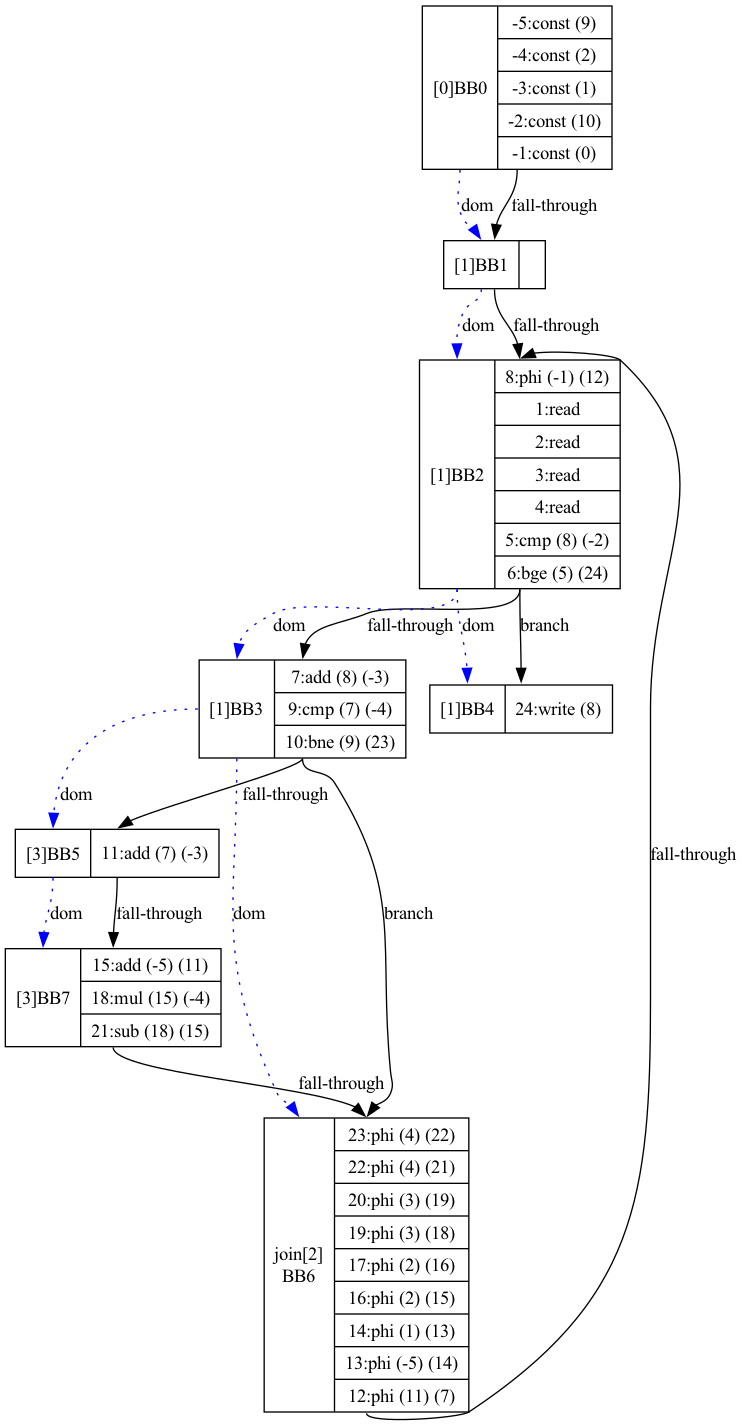
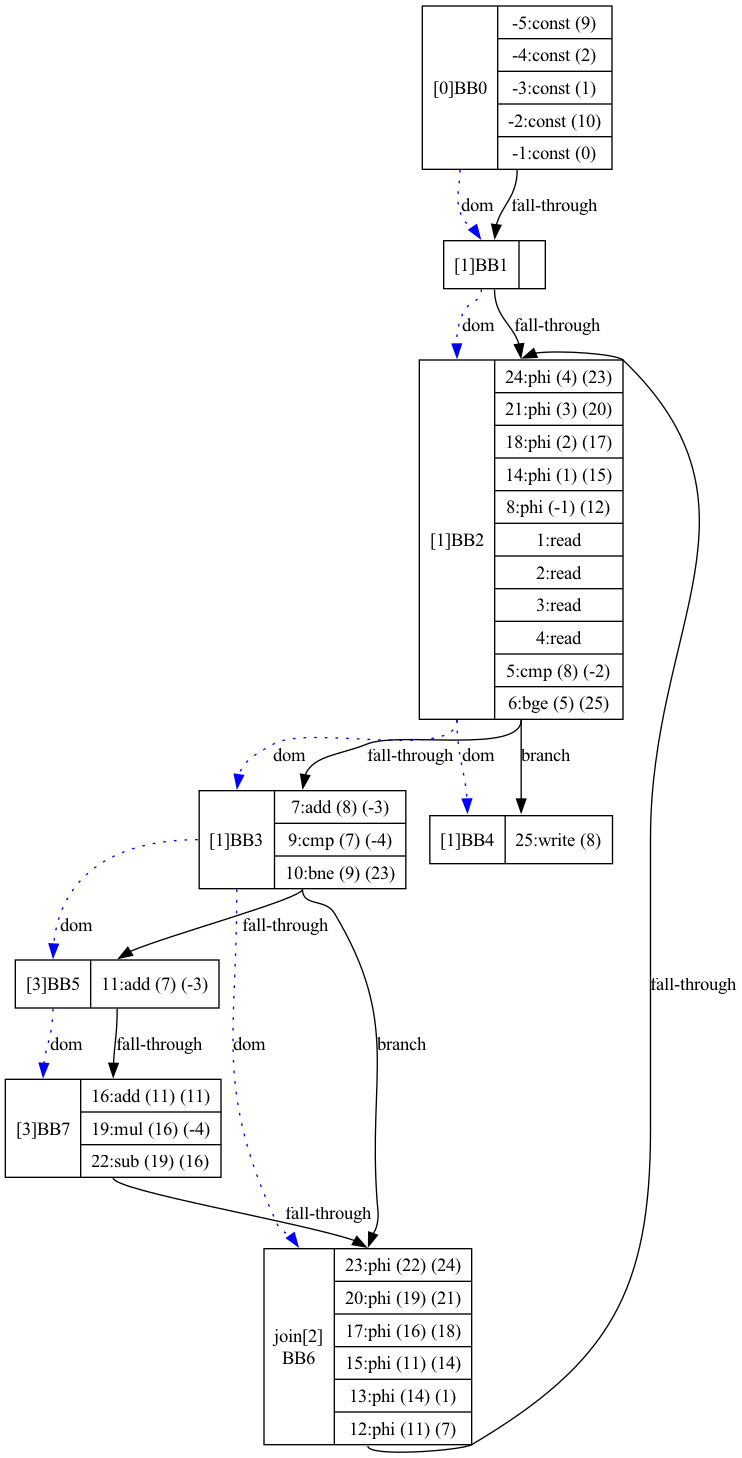
todo - resume 操你妈 马上要搞掂；快点了

diff --git a/src/Parser.cpp b/src/Parser.cpp
@@ -545,7 +545,11 @@ SSA* Parser::p2_assignment() {
                     std::cout << "child2 blk == " << this->currBB->child2->toString() << std::endl;
                 #endif
                 this->currBB->child->child2 = this->currBB->child2;
-                this->currBB->child->child2->parent2 = this->currBB->child;
+                if (this->currBB->child->child2->parent->blockNum == this->currBB->blockNum) {
+                    this->currBB->child->child2->parent = this->currBB->child;
+                } else {
+                    this->currBB->child->child2->parent2 = this->currBB->child;
+                }
                 this->currBB->child2 = nullptr;
             }
         } else if (this->currBB->child) {
@@ -557,14 +561,27 @@ SSA* Parser::p2_assignment() {
             this->currBB->child = new BasicBlock(this->currBB->varVals, false, this->currBB->blkType, false);
             this->currBB->child->parent = this->currBB;
             this->currBB->child->child = oldChild;
-            this->currBB->child->child->parent = this->currBB->child;
+            
+            // this->currBB->child->child->parent = this->currBB->child;
+            if (this->currBB->child->child2->parent->blockNum == this->currBB->blockNum) {
+                this->currBB->child->child2->parent = this->currBB->child;
+            } else {
+                this->currBB->child->child2->parent2 = this->currBB->child;
+            }
 
             if (this->currBB->child2) {
                 #ifdef DEBUG
                     std::cout << "child2 blk == " << this->currBB->child2->toString() << std::endl;
                 #endif
                 this->currBB->child->child2 = this->currBB->child2;
-                this->currBB->child->child2->parent2 = this->currBB->child;
+                
+                // this->currBB->child->child2->parent2 = this->currBB->child;
+                if (this->currBB->child->child2->parent->blockNum == this->currBB->blockNum) {
+                    this->currBB->child->child2->parent = this->currBB->child;
+                } else {
+                    this->currBB->child->child2->parent2 = this->currBB->child;
+                }
+                
                 this->currBB->child2 = nullptr;
             }
         }
@@ -644,7 +661,7 @@ SSA* Parser::p2_assignment() {
                 std::cout << "currBB is [if/else-blk];  looks like: " << std::endl << this->currBB->toString() << std::endl;
             #endif
             // [12.17.2024]: the real question is how to denote if-path vs else-path
-            // - see Parser.hpp::
+            // - see Parser.hpp::propagateDown()
             // [12.17.2024]: "new" [updateIf] bool where we propagate till the first join-blk (assuming we know we're in a if/else [has join] && the phi in the join's already mapped valid-ly)
             // this->propagateDown(this->currBB, ident, BasicBlock::ssa_table.at(this->currBB->child2->varVals.at(ident))->get_operand1(), table_int, true, {}, true);
 
@@ -655,7 +672,11 @@ SSA* Parser::p2_assignment() {
             
             // [12.11.2024]: unique case of [conditionalStmtPhiUpdate()]
             std::unordered_set<int> vars = {ident};
-            this->conditionalStmtPhiUpdate(vars, this->currBB->parent->parent, this->currBB->parent, this->currBB->parent->parent);
+            // [this->currBB->parent->parent] migiht not be [if_parent]
+            if (tmp->findSSA(value)) {
+                oldVal = BasicBlock::ssa_table.at(tmp->parent->varVals.at(ident));
+            }
+            this->conditionalStmtPhiUpdate(vars, oldVal);
 
             this->currBB = tmp;
         } else if (this->currBB->blkType == 1) { // std-blk type
@@ -706,7 +727,7 @@ SSA* Parser::p2_assignment() {
             
             // [12.11.2024]: unique case of [conditionalStmtPhiUpdate()]
             std::unordered_set<int> vars = {ident};
-            this->conditionalStmtPhiUpdate(vars, this->currBB->parent->parent, this->currBB->parent, this->currBB->parent->parent);
+            this->conditionalStmtPhiUpdate(vars, oldVal);
 
             this->currBB = tmp;
         } else if (this->currBB->blkType == 2) { // join-blk
@@ -1250,6 +1271,7 @@ SSA* Parser::p2_ifStatement() {
 
     then_blk->child2 = join_blk; // [11.11.2024]: set then_blk->child2 to join_blk
     join_blk->parent = then_blk;
+    join_blk->parent2 = if_parent;
     // [11.04.2024]: new; note - [then_blk->child = (old) if_parent->child]
     if (hasChild) {
         #ifdef DEBUG
@@ -1363,7 +1385,8 @@ SSA* Parser::p2_ifStatement() {
         #endif
         
         // [12.09.2024]: new func, moved code into here
-        this->conditionalStmtPhiUpdate(vars, if_parent, then_blk, if_parent);
+        // this->conditionalStmtPhiUpdate(vars, if_parent, then_blk, if_parent);
+        this->conditionalStmtPhiUpdate(vars);
         // [12.09.2024]: this is why we have propagateDown(), not for loop, but to update all the subsequent blk's(???); NO, this is separate from [propagateDown()] since propagateDown()'s should be for loop while THIS is simply a check after [if/else-blk] to see if we need to create additional phi's(?)
 
 
@@ -1456,7 +1479,8 @@ SSA* Parser::p2_ifStatement() {
     #endif
     
     // [12.09.2024]: new func, moved code into here
-    this->conditionalStmtPhiUpdate(vars, if_parent, then_blk, else_blk);
+    // this->conditionalStmtPhiUpdate(vars, if_parent, then_blk, else_blk);
+    this->conditionalStmtPhiUpdate(vars);
     // [12.09.2024]: this is why we have propagateDown(), not for loop, but to update all the subsequent blk's(???); NO, this is separate from [propagateDown()] since propagateDown()'s should be for loop while THIS is simply a check after [if/else-blk] to see if we need to create additional phi's(?)
 
     if (this->currBB->newInstrs.empty()) {

diff --git a/src/Parser.hpp b/src/Parser.hpp
@@ -502,13 +502,8 @@ public:
         #ifdef DEBUG
             std::cout << "in propagateDown(currBB[" << std::to_string(curr->blockNum) << "]; ident=" << SymbolTable::symbol_table.at(ident) << ", phi_ident=" << BasicBlock::ssa_table.at(ident_val)->toString() << ", oldVal (SSA) = " << oldVal->toString() << ", ); curr(BB) looks like: " << std::endl << curr->toString() << std::endl;
         #endif
-        seen.push_back(curr);
-
-        if (!first && this->currBB->compare(curr)) {
-            #ifdef DEBUG
-                std::cout << "returning: in a loop! found startBB looks like: " << std::endl << this->currBB->toString() << std::endl;
-            #endif
-            return;
+        if (!first) {
+            seen.push_back(curr);
         }
 
         if (curr->varVals.find(ident) != curr->varVals.end()) {
@@ -555,12 +550,17 @@ public:
                         #ifdef DEBUG
                             std::cout << "mainWhile and no phi? create it. " << std::endl;
                         #endif
+                        BasicBlock *tmp = this->currBB;
+                        this->currBB = curr;
+
                         SSA *retVal = this->addSSA1(6, prevVal, BasicBlock::ssa_table.at(ident_val));
                         ident_val = this->add_SSA_table(retVal);
                         
                         curr->varVals.insert_or_assign(ident, ident_val);
                         this->VVs.insert_or_assign(ident, ident_val);
                         curr->updateInstructions(prevVal, BasicBlock::ssa_table.at(ident_val));
+                        
+                        this->currBB = tmp;
                         #ifdef DEBUG
                             std::cout << "mainWhiel-blk looks like: " << std::endl << curr->toString() << std::endl;
                         #endif
@@ -617,6 +617,13 @@ public:
         #ifdef DEBUG
             std::cout << "after update curr looks like: " << std::endl << curr->toString() << std::endl;
         #endif
+
+        if (!first && this->currBB->compare(curr)) {
+            #ifdef DEBUG
+                std::cout << "returning: in a loop! found startBB looks like: " << std::endl << this->currBB->toString() << std::endl;
+            #endif
+            return;
+        }
 
         if ((curr->child) && (std::find(seen.begin(), seen.end(), curr->child) == seen.end())) {
             propagateDown(curr->child, ident, oldVal, ident_val, false, seen, updateIf);
@@ -889,19 +896,36 @@ public:
         #endif
     }
 
-    inline void conditionalStmtPhiUpdate(std::unordered_set<int> vars, BasicBlock *if_parent, BasicBlock *then_blk, BasicBlock *else_blk) {
+    inline void conditionalStmtPhiUpdate(std::unordered_set<int> vars, SSA *oldVal = nullptr) {
         // [12.09.2024]: if we have [if && else] blk, assumes [this->currBB == join_blk]
+        BasicBlock *then_blk_last = this->currBB->parent;
+        BasicBlock *else_blk_last = this->currBB->parent2;
         #ifdef DEBUG
-            std::cout << "else-blk exists!" << std::endl;
+            std::cout << "in conditionalStmtPhiUpdate()" << std::endl;
+            std::cout << "\toldVal=[";
+            if (oldVal) {
+                std::cout << oldVal->toString();
+            } else {
+                std::cout << "nullptr!";
+            }
+            std::cout << "]" << std::endl;
+
+            std::cout << "\tthen_blk=[";
+            if (then_blk_last) {
+                std::cout << then_blk_last->toString();
+            } else {
+                std::cout << "nullptr!";
+            }
+            std::cout << "]" << std::endl;
+            std::cout << "\telse_blk=[";
+            if (else_blk_last) {
+                std::cout << else_blk_last->toString();
+            } else {
+                std::cout << "nullptr!";
+            }
+            std::cout << "]" << std::endl;
             std::cout << "[this->currBB] looks like: " << std::endl << this->currBB->toString() << std::endl;
         #endif
-        BasicBlock *then_blk_last = this->currBB->parent;
-        BasicBlock *else_blk_last = nullptr;
-        if (this->currBB->parent2) {
-            else_blk_last = this->currBB->parent2;
-        } else {
-            else_blk_last = else_blk;
-        }        
 
         for (const auto &p : vars) {
             int curr = p;
@@ -958,6 +982,15 @@ public:
                             // [12.17.2024]: the real question is how to denote if-path vs else-path...
                             // - since one requires us to [set_operand1()] while the other requries [set_operand2()]
                             BasicBlock::ssa_table.at(this->currBB->varVals.at(p))->set_operand2(BasicBlock::ssa_table.at(else_blk_last->varVals.at(p)));
+                            #ifdef DEBUG
+                                std::cout << "updating operand2()" << std::endl;
+                            #endif
+                        } else if (oldVal && (BasicBlock::ssa_table.at(this->currBB->varVals.at(p))->get_operand1()->compare(oldVal))) {
+                            // [12.17.2024]: if [operand1()] is same as [oldVal], implies we should update [operand1()]
+                            BasicBlock::ssa_table.at(this->currBB->varVals.at(p))->set_operand1(BasicBlock::ssa_table.at(else_blk_last->varVals.at(p)));
+                            #ifdef DEBUG
+                                std::cout << "updating operand1()" << std::endl;
+                            #endif
                         } else {
                             #ifdef DEBUG
                                 std::cout << "about to remove ssa [" << BasicBlock::ssa_table.at(this->currBB->varVals.at(p))->toString() << "]" << std::endl;
